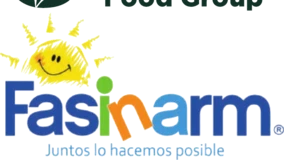
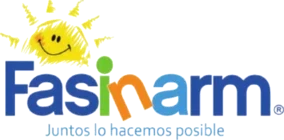
feat: correcciones de Gustavo (27 oct)
- Proceso: 'Damos vida a tus ideas'
- Vinilmanía junto en todo el copy
- Quita 'sobre todo tipo de superficies' del texto de Vinilmanía
- LuvArt: stickers de La Costeñita en lugar de Codicia
- Letrero LED de Upper reemplazado por la fachada de Dieselectro
- Clientes: corrige el recorte de Flora y Fasinarm, quita Starcargo,
  escudo SC y 400°, suma 12 marcas del PDF

diff --git a/src/config/site.ts b/src/config/site.ts
@@ -8,8 +8,8 @@ import type { Unit, Service, NavItem, Client, Step, Faq, Testimonial, Machine } 
 const img = (slug: string, size: 'sm' | 'lg' = 'lg') => `/img/trabajos/${slug}-${size}.webp`
 
 export const site = {
-  name: 'Vinil Manía',
-  legalName: 'Vinil Manía',
+  name: 'Vinilmanía',
+  legalName: 'Vinilmanía',
   description:
     'Películas antisolares para autos, casas y oficinas, wrapping, branding vehicular, señalética, letreros corpóreos y stickers premium en Guayaquil, con cobertura en todo Ecuador.',
   url: 'https://vinilmania.ec',
@@ -29,7 +29,7 @@ export const nav: NavItem[] = [
   {
     id: 'inicio',
     label: 'Inicio',
-    hint: 'Vinil Manía',
+    hint: 'Vinilmanía',
     image: img('vehicular-dulce-antojo', 'sm'),
   },
   {
@@ -54,12 +54,12 @@ export const nav: NavItem[] = [
     id: 'clientes',
     label: 'Clientes',
     hint: 'Marcas que confían',
-    image: img('letreros-upper-led', 'sm'),
+    image: img('letreros-dieselectro', 'sm'),
   },
   {
     id: 'proceso',
     label: 'Cómo trabajamos',
-    hint: 'De la idea a la instalación',
+    hint: 'Damos vida a tus ideas',
     image: img('vehicular-instalador', 'sm'),
   },
   {
@@ -113,11 +113,11 @@ export const about = {
 export const units: Unit[] = [
   {
     id: 'vinilmania',
-    name: 'Vinil Manía',
+    name: 'Vinilmanía',
     tag: 'Vinil, branding y personalización',
     logo: '/img/marcas/vinilmania-claro.webp',
     image: img('vehicular-cargolan'),
-    text: 'Desarrollamos y materializamos ideas creativas con viniles adhesivos sobre todo tipo de superficies: trabajos corporativos, vehiculares y decorativos en paredes, PVC, vidrio y más, cuidando la calidad visual, la correcta instalación y la durabilidad.',
+    text: 'Desarrollamos y materializamos ideas creativas con viniles adhesivos: trabajos corporativos, vehiculares y decorativos en paredes, PVC, vidrio y más, cuidando la calidad visual, la correcta instalación y la durabilidad.',
     points: [
       'Branding vehicular y de flotas',
       'Wrapping y personalización de autos y motos',
@@ -131,7 +131,7 @@ export const units: Unit[] = [
   {
     id: 'polarizados',
     name: 'Polarizados Ecuador',
-    tag: 'Películas de control solar · by Vinil Manía',
+    tag: 'Películas de control solar · by Vinilmanía',
     logo: '/img/marcas/polarizados-claro.webp',
     image: img('solar-casa-jardin'),
     text: 'Soluciones en películas de control solar para uso residencial, corporativo y vehicular. Nuestras láminas reducen la radiación UV, controlan el ingreso de calor y mejoran el confort térmico: protección, eficiencia y bienestar en cada espacio.',
@@ -147,9 +147,9 @@ export const units: Unit[] = [
   {
     id: 'luvart',
     name: 'LuvArt',
-    tag: 'Impresión UV de alto relieve · by Vinil Manía',
+    tag: 'Impresión UV de alto relieve · by Vinilmanía',
     logo: '/img/marcas/luvart-claro.webp',
-    image: img('stickers-codicia'),
+    image: img('stickers-costenita'),
     text: 'Desarrollamos ideas artísticas y corporativas con impresión UV de alta calidad y tecnología 100% japonesa. Alto relieve, fidelidad de color, texturas y larga durabilidad sobre una amplia variedad de sustratos.',
     points: [
       'Stickers temáticos premium para marcas',
@@ -181,7 +181,7 @@ export const services: Service[] = [
   {
     id: 'branding',
     title: 'Branding corporativo para vehículos y espacios',
-    unit: 'Vinil Manía',
+    unit: 'Vinilmanía',
     text: 'Convertimos tu flota en publicidad móvil y tus paredes y vitrinas en espacios que refuerzan tu marca.',
     items: [
       'Brandeo vehicular',
@@ -195,7 +195,7 @@ export const services: Service[] = [
   {
     id: 'wrapping',
     title: 'Wrapping y personalización de autos y motos',
-    unit: 'Vinil Manía',
+    unit: 'Vinilmanía',
     text: 'Cambio de color, calcas y personalización con vinil para que tu vehículo se vea único.',
     items: ['Cambio de color', 'Calcas para motos', 'Personalización a medida'],
     image: img('vehicular-instalador', 'sm'),
@@ -206,12 +206,12 @@ export const services: Service[] = [
     unit: 'LuvArt',
     text: 'Impresión UV con alto relieve, barniz y texturas. Stickers temáticos que las marcas quieren coleccionar.',
     items: ['Stickers premium', 'Alto relieve', 'Cuadros con textura'],
-    image: img('stickers-codicia', 'sm'),
+    image: img('stickers-costenita', 'sm'),
   },
   {
     id: 'senaletica',
     title: 'Señaléticas y letreros corpóreos',
-    unit: 'Vinil Manía',
+    unit: 'Vinilmanía',
     text: 'Sistemas de orientación y letreros que destacan tu marca de día y de noche.',
     items: [
       'Señalética corporativa',
@@ -219,12 +219,12 @@ export const services: Service[] = [
       'Letreros con estructura',
       'Gigantografías',
     ],
-    image: img('letreros-upper-led', 'sm'),
+    image: img('letreros-dieselectro', 'sm'),
   },
   {
     id: 'pop',
     title: 'Material POP y textiles',
-    unit: 'Vinil Manía',
+    unit: 'Vinilmanía',
     text: 'Todo para ferias, activaciones y eventos, y prendas que llevan tu marca puesta.',
     items: ['Roll ups y backings', 'Counters y stands', 'Camisetas, buzos y gorras'],
     image: img('pop-backing-dunkin', 'sm'),
@@ -233,20 +233,29 @@ export const services: Service[] = [
 
 export const clients: Client[] = [
   { name: 'Upper', logo: 'upper' },
+  { name: 'La Costeñita', logo: 'la-costenita' },
   { name: "Dunkin'", logo: 'dunkin' },
+  { name: 'Furia St', logo: 'furia-st' },
   { name: 'Lamicer', logo: 'lamicer' },
+  { name: 'Naturíssimo', logo: 'naturissimo' },
   { name: 'Rubasa', logo: 'rubasa' },
+  { name: 'Crookie Bomb', logo: 'crookie-bomb' },
   { name: 'Flora Food Group', logo: 'flora' },
-  { name: '400°', logo: '400-grados' },
+  { name: 'Golden Prague', logo: 'golden-prague' },
   { name: 'Fasinarm', logo: 'fasinarm' },
-  { name: 'Starcargo', logo: 'starcargo' },
+  { name: 'Bendito', logo: 'bendito' },
   { name: 'Inproel', logo: 'inproel' },
+  { name: 'Rukito', logo: 'rukito' },
   { name: 'Cargolan', logo: 'cargolan' },
+  { name: 'Edyka', logo: 'edyka' },
   { name: 'Aseplas', logo: 'aseplas' },
+  { name: 'The Smart Roll', logo: 'the-smart-roll' },
   { name: 'Car Secure', logo: 'car-secure' },
+  { name: 'Pikeos', logo: 'pikeos' },
   { name: 'Cartones & Papeles', logo: 'cartones-papeles' },
+  { name: 'Empapate', logo: 'empapate' },
   { name: '1700 Custodia', logo: '1700-custodia' },
-  { name: 'Cliente corporativo', logo: 'escudo-z' },
+  { name: 'Fiby Dog', logo: 'fiby-dog' },
   { name: 'Multijairos', logo: 'multijairos' },
 ]
 
@@ -348,7 +357,7 @@ export const contact = {
   ],
 }
 
-export function whatsappLink(message = 'Hola Vinil Manía, quiero más información'): string {
+export function whatsappLink(message = 'Hola Vinilmanía, quiero más información'): string {
   // Sin número todavía: los botones llevan al formulario de contacto.
   if (!site.whatsapp) return '#contacto'
   return `https://wa.me/${site.whatsapp}?text=${encodeURIComponent(message)}`

diff --git a/index.html b/index.html
@@ -6,7 +6,7 @@
     <link rel="icon" type="image/png" href="/favicon.png" />
     <link rel="apple-touch-icon" href="/apple-touch-icon.png" />
 
-    <title>Vinil Manía | Polarizado, wrapping, branding vehicular y stickers en Guayaquil</title>
+    <title>Vinilmanía | Polarizado, wrapping, branding vehicular y stickers en Guayaquil</title>
     <meta
       name="description"
       content="Películas antisolares para autos, casas y oficinas, wrapping, branding vehicular, señalética, letreros corpóreos LED y stickers premium de alto relieve. Más de 10 años en Guayaquil, cobertura en todo Ecuador."
@@ -19,8 +19,8 @@
     <!-- Open Graph / social (WhatsApp es el canal principal de compartir) -->
     <meta property="og:type" content="website" />
     <meta property="og:locale" content="es_EC" />
-    <meta property="og:site_name" content="Vinil Manía" />
-    <meta property="og:title" content="Vinil Manía | Vinil que protege, viste y vende" />
+    <meta property="og:site_name" content="Vinilmanía" />
+    <meta property="og:title" content="Vinilmanía | Vinil que protege, viste y vende" />
     <meta
       property="og:description"
       content="Polarizado, control solar, wrapping, branding vehicular, señalética y stickers premium en Guayaquil y todo Ecuador."
@@ -37,7 +37,7 @@
         "@context": "https://schema.org",
         "@type": "LocalBusiness",
         "@id": "https://vinilmania.ec/#negocio",
-        "name": "Vinil Manía",
+        "name": "Vinilmanía",
         "url": "https://vinilmania.ec/",
         "image": "https://vinilmania.ec/og.jpg",
         "logo": "https://vinilmania.ec/img/marcas/vinilmania.webp",
@@ -86,7 +86,7 @@
   <body>
     <div id="app"></div>
     <noscript>
-      Vinil Manía: películas antisolares, wrapping, branding vehicular, señalética y stickers premium en
+      Vinilmanía: películas antisolares, wrapping, branding vehicular, señalética y stickers premium en
       Guayaquil, Ecuador.
     </noscript>
     <script type="module" src="/src/main.ts"></script>

diff --git a/src/config/gallery.ts b/src/config/gallery.ts
@@ -216,11 +216,18 @@ export const works: Work[] = [
     color: '#d3ccc8',
   },
   {
-    slug: 'stickers-codicia',
+    slug: 'stickers-costenita',
     category: 'stickers',
-    title: 'Stickers premium · Codicia',
-    ratio: 0.753,
-    color: '#937f7d',
+    title: 'Stickers coleccionables · La Costeñita',
+    ratio: 0.75,
+    color: '#9fa18e',
+  },
+  {
+    slug: 'stickers-costenita-coleccion',
+    category: 'stickers',
+    title: 'Colección de stickers · La Costeñita',
+    ratio: 0.75,
+    color: '#9c9f90',
   },
   {
     slug: 'stickers-indomable',
@@ -321,11 +328,11 @@ export const works: Work[] = [
     color: '#607077',
   },
   {
-    slug: 'letreros-upper-led',
+    slug: 'letreros-dieselectro',
     category: 'letreros',
-    title: 'Letrero corpóreo LED · Upper',
-    ratio: 2.115,
-    color: '#393c33',
+    title: 'Letreros corpóreos · Dieselectro',
+    ratio: 1.6,
+    color: '#6b7c8d',
   },
   {
     slug: 'letreros-gigantografia-iplas',

diff --git a/src/layout/TheHeader.vue b/src/layout/TheHeader.vue
@@ -33,8 +33,8 @@ onBeforeUnmount(() => window.removeEventListener('scroll', onScroll))
     }"
   >
     <div class="header__inner">
-      <a href="#inicio" class="header__logo" aria-label="Vinil Manía, ir al inicio" @click="close">
-        <img src="/img/marcas/vinilmania-claro.webp" alt="Vinil Manía" width="190" height="28" />
+      <a href="#inicio" class="header__logo" aria-label="Vinilmanía, ir al inicio" @click="close">
+        <img src="/img/marcas/vinilmania-claro.webp" alt="Vinilmanía" width="190" height="28" />
       </a>
 
       <div class="header__actions">

diff --git a/src/components/sections/ContactSection.vue b/src/components/sections/ContactSection.vue
@@ -11,7 +11,7 @@ const form = reactive({ name: '', topic: contact.topics[0] as string, city: '', 
 // Sin backend: el formulario solo arma el texto y lo abre en WhatsApp.
 const message = computed(() => {
   const lines = [
-    `Hola Vinil Manía, soy ${form.name.trim() || '(tu nombre)'}.`,
+    `Hola Vinilmanía, soy ${form.name.trim() || '(tu nombre)'}.`,
     `Me interesa: ${form.topic}.`,
   ]
   if (form.city.trim()) lines.push(`Ciudad: ${form.city.trim()}.`)

diff --git a/src/components/sections/ProcessSection.vue b/src/components/sections/ProcessSection.vue
@@ -12,7 +12,7 @@ useReveal(root)
     <div class="process__inner">
       <header class="process__head" data-reveal>
         <p class="process__eyebrow">Cómo trabajamos</p>
-        <h2 class="process__title">De tu idea a la instalación</h2>
+        <h2 class="process__title">Damos vida a tus ideas</h2>
       </header>
 
       <ol class="process__steps" data-reveal="stagger">

diff --git a/src/styles/colorVariables.module.scss b/src/styles/colorVariables.module.scss
@@ -1,4 +1,4 @@
-// Paleta de Vinil Manía, tomada del catálogo 2026: carbón, naranja de marca y
+// Paleta de Vinilmanía, tomada del catálogo 2026: carbón, naranja de marca y
 // los amarillos/rojos de las llamas del isotipo VM. La web es oscura por
 // defecto, como el catálogo; las secciones claras ($paper) son el contrapunto.
 @use 'sass:color';

diff --git a/src/layout/TheFooter.vue b/src/layout/TheFooter.vue
@@ -23,7 +23,7 @@ const socials = [
         <div class="footer__brand">
           <img
             src="/img/marcas/vinilmania-claro.webp"
-            alt="Vinil Manía"
+            alt="Vinilmanía"
             width="200"
             height="30"
             loading="lazy"
